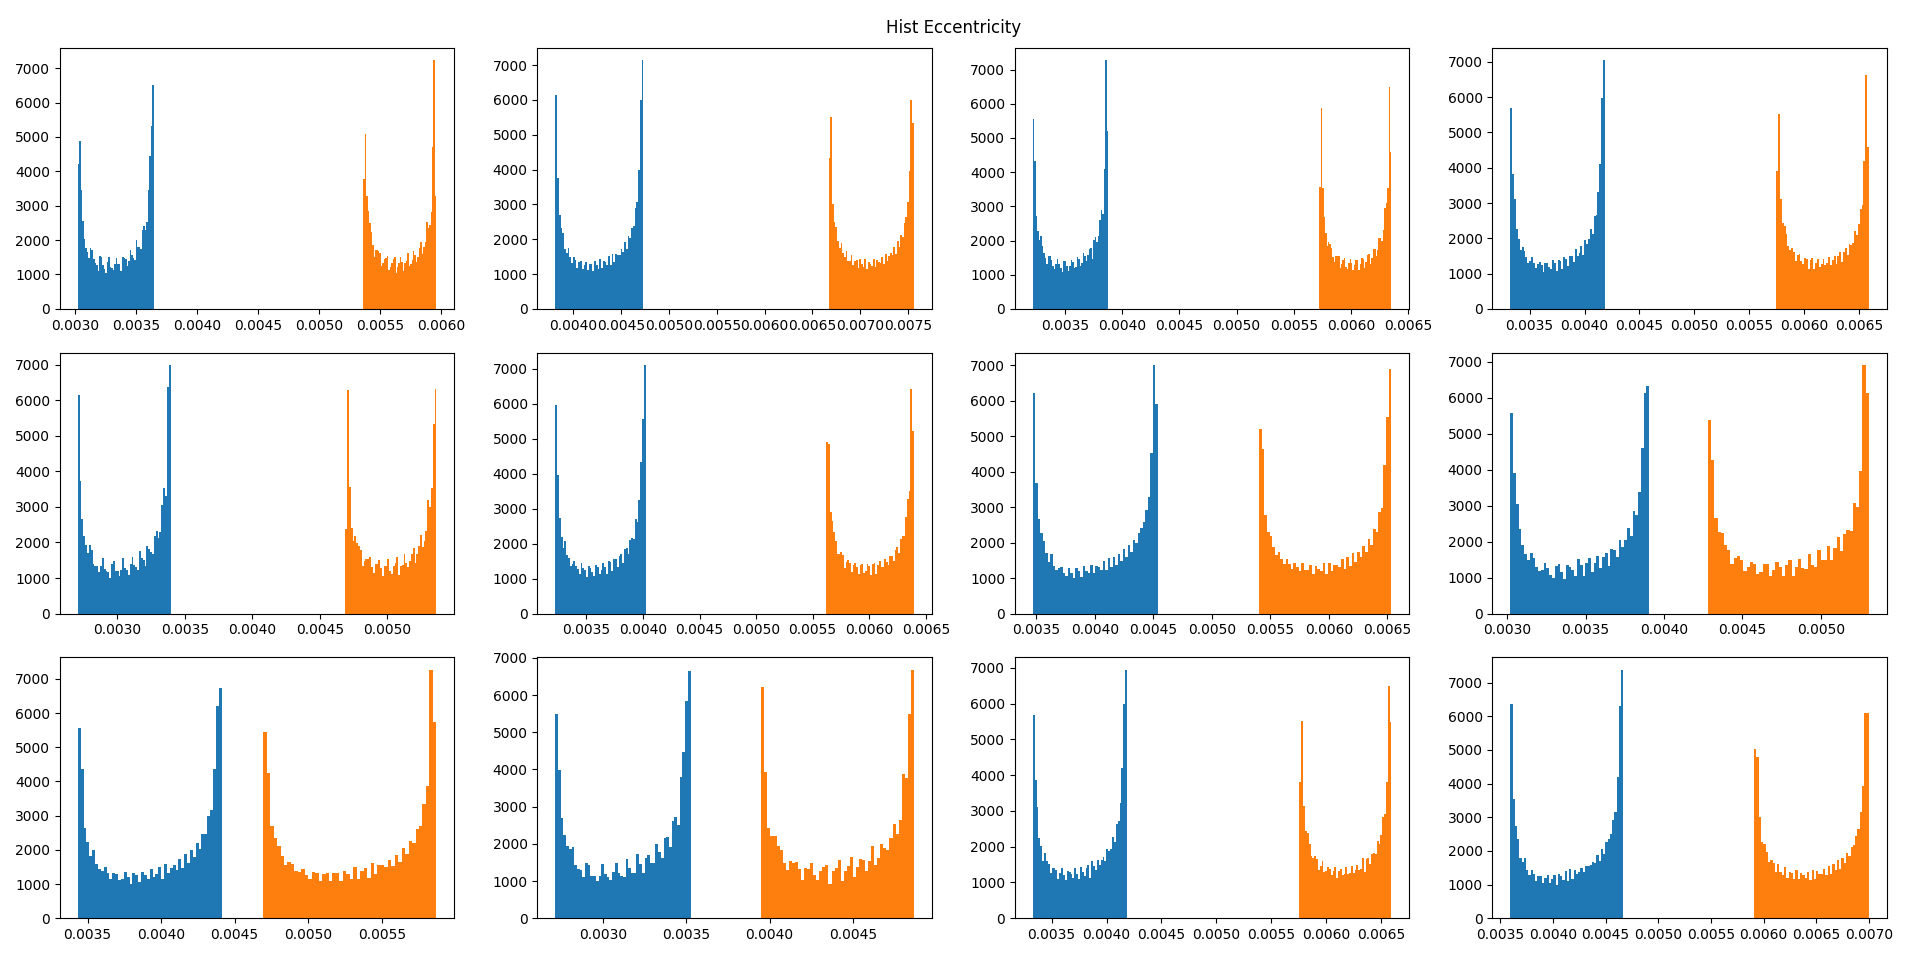
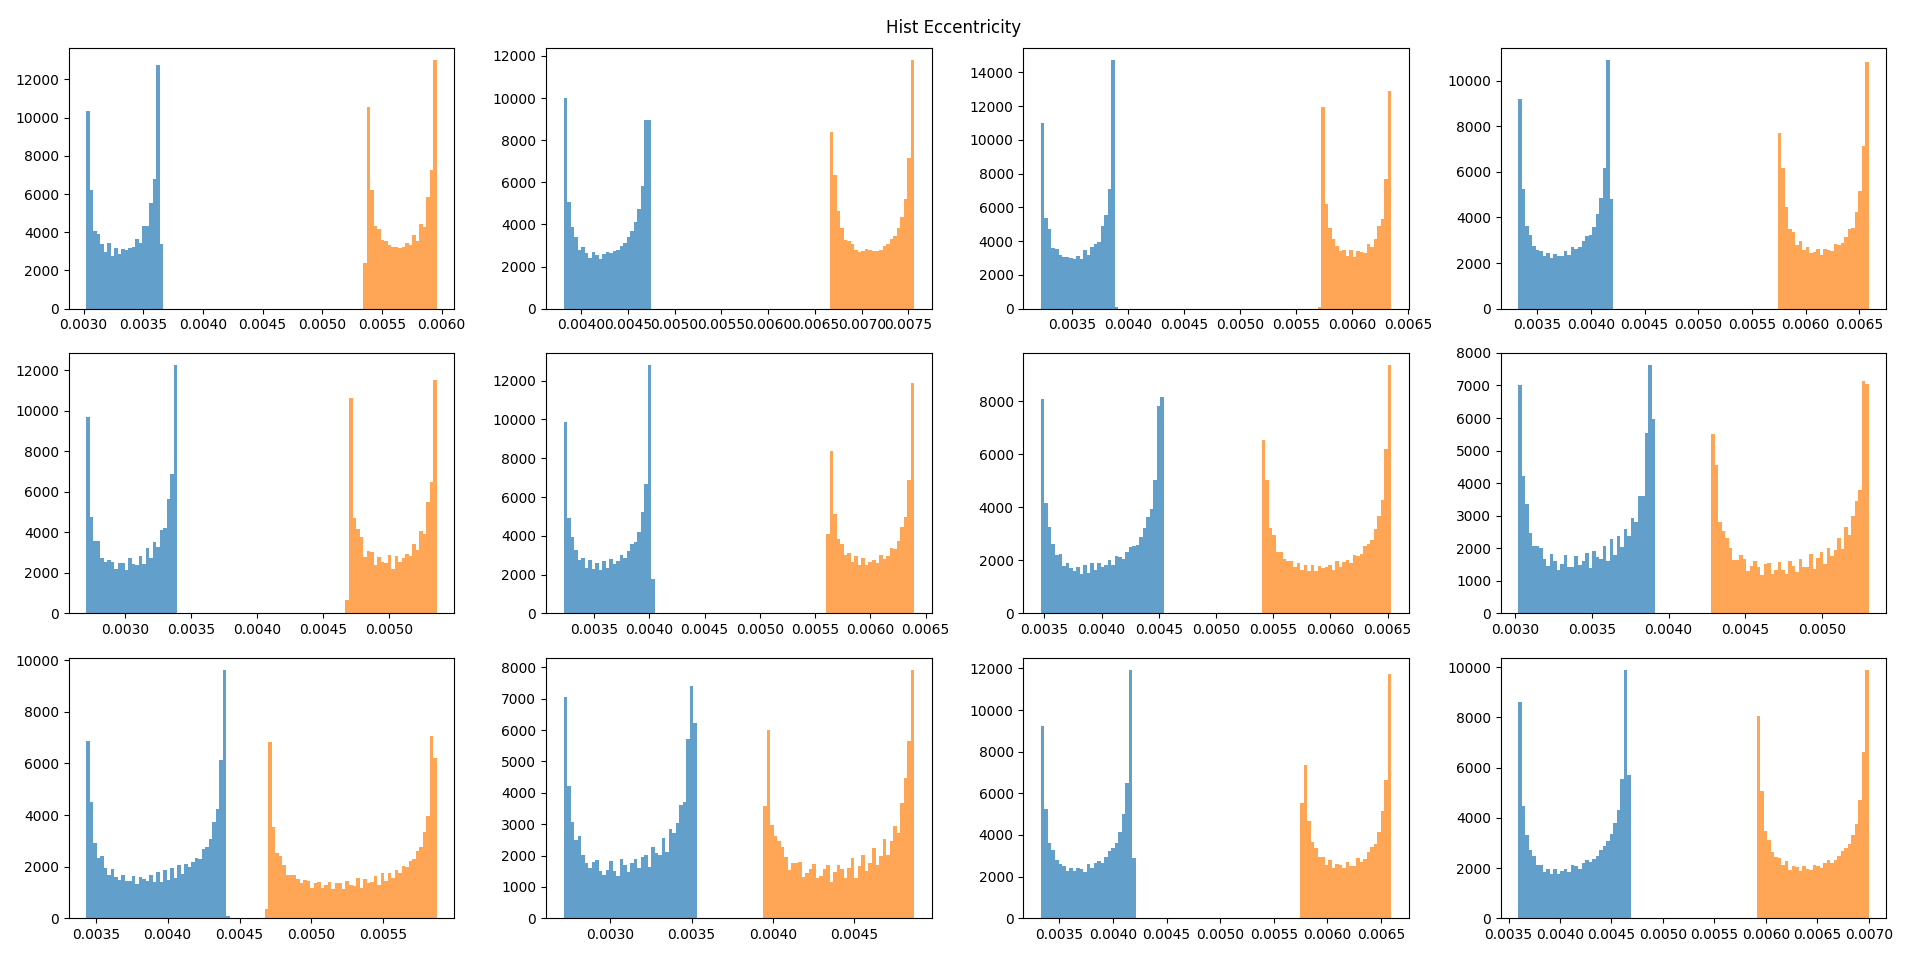
Revised Plots

Changed region(s): [[0.0, 0.0606, 0.99, 0.6667], [0.0, 0.6667, 0.99, 1.0], [0.495, 0.3939, 0.526, 0.4242]]

diff --git a/Test_Examples/AU_Mic/AU_Mic.py b/Test_Examples/AU_Mic/AU_Mic.py
@@ -61,7 +61,7 @@ def Parallel_Sim(niter):
 
 
 if __name__ == '__main__':
-	folderpath = "./2024_3_22_17_6_45"
+	folderpath = "./2024_3_23_19_37_46"
 
 	if folderpath == "":
 		loctime = datetime.now()
@@ -112,6 +112,6 @@ if __name__ == '__main__':
 				column = 0
 				line += 1
 
-	Hist_Plot(directories, 1000, 100, plot_lines, plot_columns, plot_titles, set_titles)
+	Hist_Plot(directories, 100, 100, plot_lines, plot_columns, plot_titles, set_titles)
 
 	plt.show()
